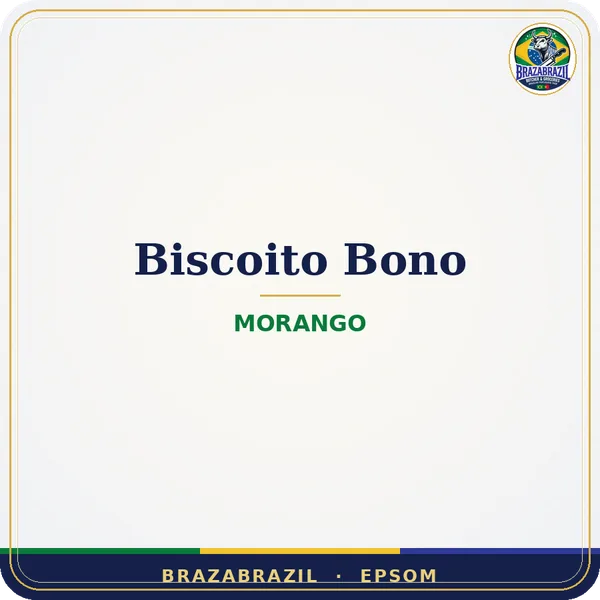
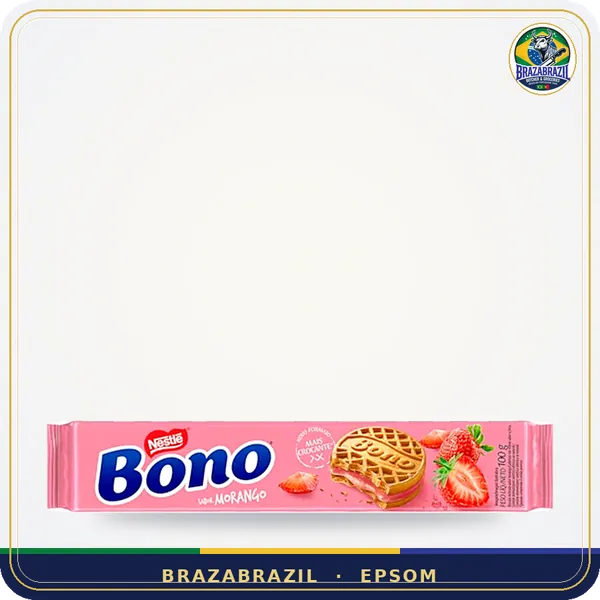
Fotos reais dos 8 itens restantes; remove Bolo Arminda Neto e Café São Francisco
Claude-Session: https://claude.ai/code/session_01DDRaaWaovpG94AFaRVuRbM

Changed region(s): [[0.06, 0.69, 0.93, 0.9], [0.21, 0.39, 0.78, 0.57]]

diff --git a/js/groceries.js b/js/groceries.js
@@ -357,7 +357,7 @@ window.GROUPS.groceries = [
     { en: "Brazilian & Portuguese ground coffee", pt: "Café torrado e moído", es: "Café molido" },
     { en: "More coffees from Brazil and Portugal.", pt: "Mais cafés do Brasil e de Portugal.", es: "Más cafés de Brasil y Portugal." },
     [["cafe-uniao", "União tradicional · 250 g", 4.99, "cafe-uniao"], ["cafe-brasileiro", "Café brasileiro", 5.99, "cafe-brasileiro"],
-     ["buondi-robusto", "Buondi Robusto", 6.99, "buondi-robusto"], ["cafe-sao-francisco", "São Francisco · 250 g", 9.50, "cafe-sao-francisco"],
+     ["buondi-robusto", "Buondi Robusto", 6.99, "buondi-robusto"],
      ["cafe-caboclo", "Caboclo", 11.50, "cafe-caboclo"]]);
   G("chas-barao", "Chás Barão", "cafe",
     { en: "Brazilian herbal teas", pt: "Chás e infusões Barão", es: "Infusiones Barão" },
@@ -373,9 +373,6 @@ window.GROUPS.groceries = [
     { en: "Roasted mate tea", pt: "Chá mate tostado", es: "Té mate tostado" },
     { en: "The famous Rio de Janeiro mate tea — hot or iced with lemon.", pt: "O famoso mate carioca — quente ou gelado com limão.", es: "El famoso mate de Río." },
     [["matte-sachets", "Sachês", 3.40, "matte-sachets"], ["matte-granel", "A granel", 5.80, "matte-granel"]], { tags: ["vegan"] });
-  S("bolo-arminda", "Bolo Arminda Neto", "matinais", 6.99, "bolo-arminda",
-    { en: "Portuguese cake", pt: "Bolo português", es: "Bizcocho portugués" },
-    { en: "Traditional Portuguese cake for coffee time.", pt: "Bolo tradicional português para a hora do café.", es: "Bizcocho tradicional portugués." }, { tags: ["portuguese"] });
   G("wafer-bauducco", "Wafer Bauducco", "biscoitos",
     { en: "Wafer biscuits", pt: "Biscoito wafer", es: "Barquillos" },
     { en: "Crispy Bauducco wafers.", pt: "Wafers crocantes Bauducco.", es: "Barquillos crujientes." },
